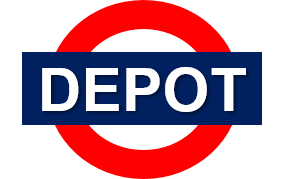
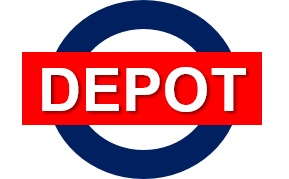
tweaked the images

diff --git a/src/Main.java b/src/Main.java
@@ -288,7 +288,7 @@ public class Main extends Application {
     	if(aStop.getClass().getSimpleName().equalsIgnoreCase("stop")){
     		image = new Image("file:res/BusStop.png");
     	} else if(aStop.getClass().getSimpleName().equalsIgnoreCase("depot")){
-    		image = new Image("file:res/BusDepot_Red.png");
+    		image = new Image("file:res/BusDepot.png");
     	}
     	// width = 240
     	// height = 179
